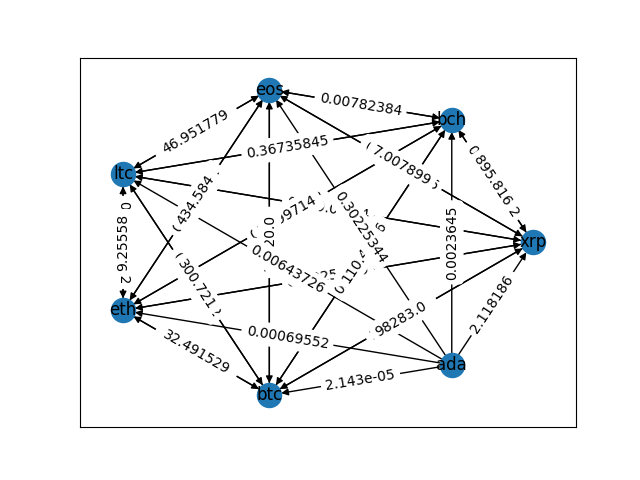
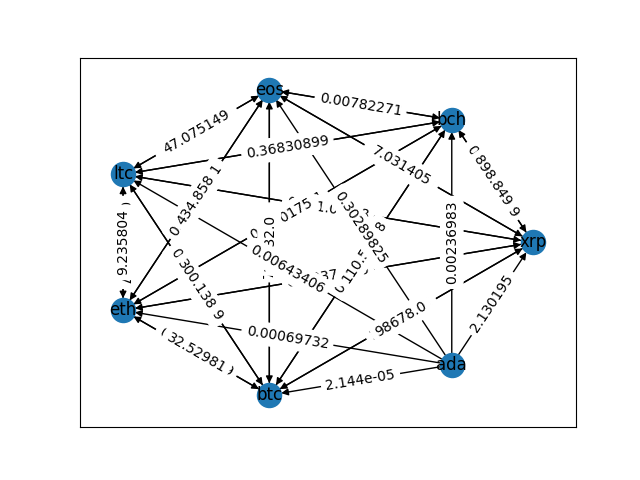
up

diff --git a/assignment/hw4/hw4.py b/assignment/hw4/hw4.py
@@ -17,27 +17,35 @@ currencies=["xrp","ada","bch","eos","ltc","eth","btc"]
 g = nx.DiGraph()
 edges=[]
 
+# while÷]
+
+
 for i in range(len(ids)):
-    for j in range(i+1,len(ids)):
-        url = "https://api.coingecko.com/api/v3/simple/price?ids="+ids[i]+","+ids[j]+"&vs_currencies="+currencies[i]+","+currencies[j]+""
-        req=requests.get(url)
-        req_dict = json.loads(req.text)
-        if(currencies[i]=='ada'):
-            edges.append((currencies[i],currencies[j],float(req_dict[ids[i]][currencies[j]])))
-        elif(currencies[j]=='ada'):
-            pass
-        else:
-            edges.append((currencies[i], currencies[j],float(req_dict[ids[i]][currencies[j]])))
-            edges.append((currencies[j], currencies[i],float(req_dict[ids[j]][currencies[i]])))
-        j+=1
+    for j in range(len(ids)) :
+
+        if i!=j:
+            url = "https://api.coingecko.com/api/v3/simple/price?ids="+ids[i]+","+ids[j]+"&vs_currencies="+currencies[i]+","+currencies[j]+""
+            req=requests.get(url)
+            req_dict = json.loads(req.text)
+            if(currencies[j]=='ada'):
+                # edges.append((currencies[i],currencies[j],float(req_dict[ids[i]][currencies[j]])))
+                pass
+            # elif(currencies[j]=='ada'):
+            #     pass
+            else:
+                edges.append((currencies[i], currencies[j],float(req_dict[ids[i]][currencies[j]])))
+                # edges.append((currencies[j], currencies[i],float(req_dict[ids[j]][currencies[i]])))
+            j+=1
     i+=1
 
-url = "https://api.coingecko.com/api/v3/simple/price?ids=cardano,ripple&vs_currencies=ada,xrp"
-req=requests.get(url)
-req_dict = json.loads(req.text)
-edges.append(('ada','xrp',req_dict["cardano"]["xrp"]))
+# url = "https://api.coingecko.com/api/v3/simple/price?ids=cardano,ripple&vs_currencies=ada,xrp"
+# req=requests.get(url)
+# req_dict = json.loads(req.text)
+# edges.append(('ada','xrp',req_dict["cardano"]["xrp"]))
+# to delete
 
-# print(edges)
+
+print(edges)
 g.add_weighted_edges_from(edges)
 
 # # print all nodes
@@ -59,7 +67,7 @@ greatest_path = []
 lowest_weight = 99999999
 lowest_path = []
 for n1, n2 in combinations(g.nodes, 2):
-    print("paths from ", n1, "to", n2, "----------------------------------")
+    # print("paths from ", n1, "to", n2, "----------------------------------")
     for path in nx.all_simple_paths(g, source=n1, target=n2):
         # Update this code to multiply all the edges in the path and print
         # the factor
@@ -68,7 +76,7 @@ for n1, n2 in combinations(g.nodes, 2):
             # print("edge from",path[i],"to",path[i+1],": ",g[path[i]][path[i+1]]["weight"])
             path_weight_to *= g[path[i]][path[i + 1]]["weight"]
 
-        print(path," : ",path_weight_to)
+        # print(path," : ",path_weight_to)
 
         path.reverse()
 
@@ -76,7 +84,7 @@ for n1, n2 in combinations(g.nodes, 2):
         for i in range(len(path) - 1):
             path_weight_from *= g[path[i]][path[i + 1]]["weight"]
 
-        print(path, " : ", path_weight_from)
+        # print(path, " : ", path_weight_from)
 
         path_weight_factor = path_weight_to * path_weight_from
 
